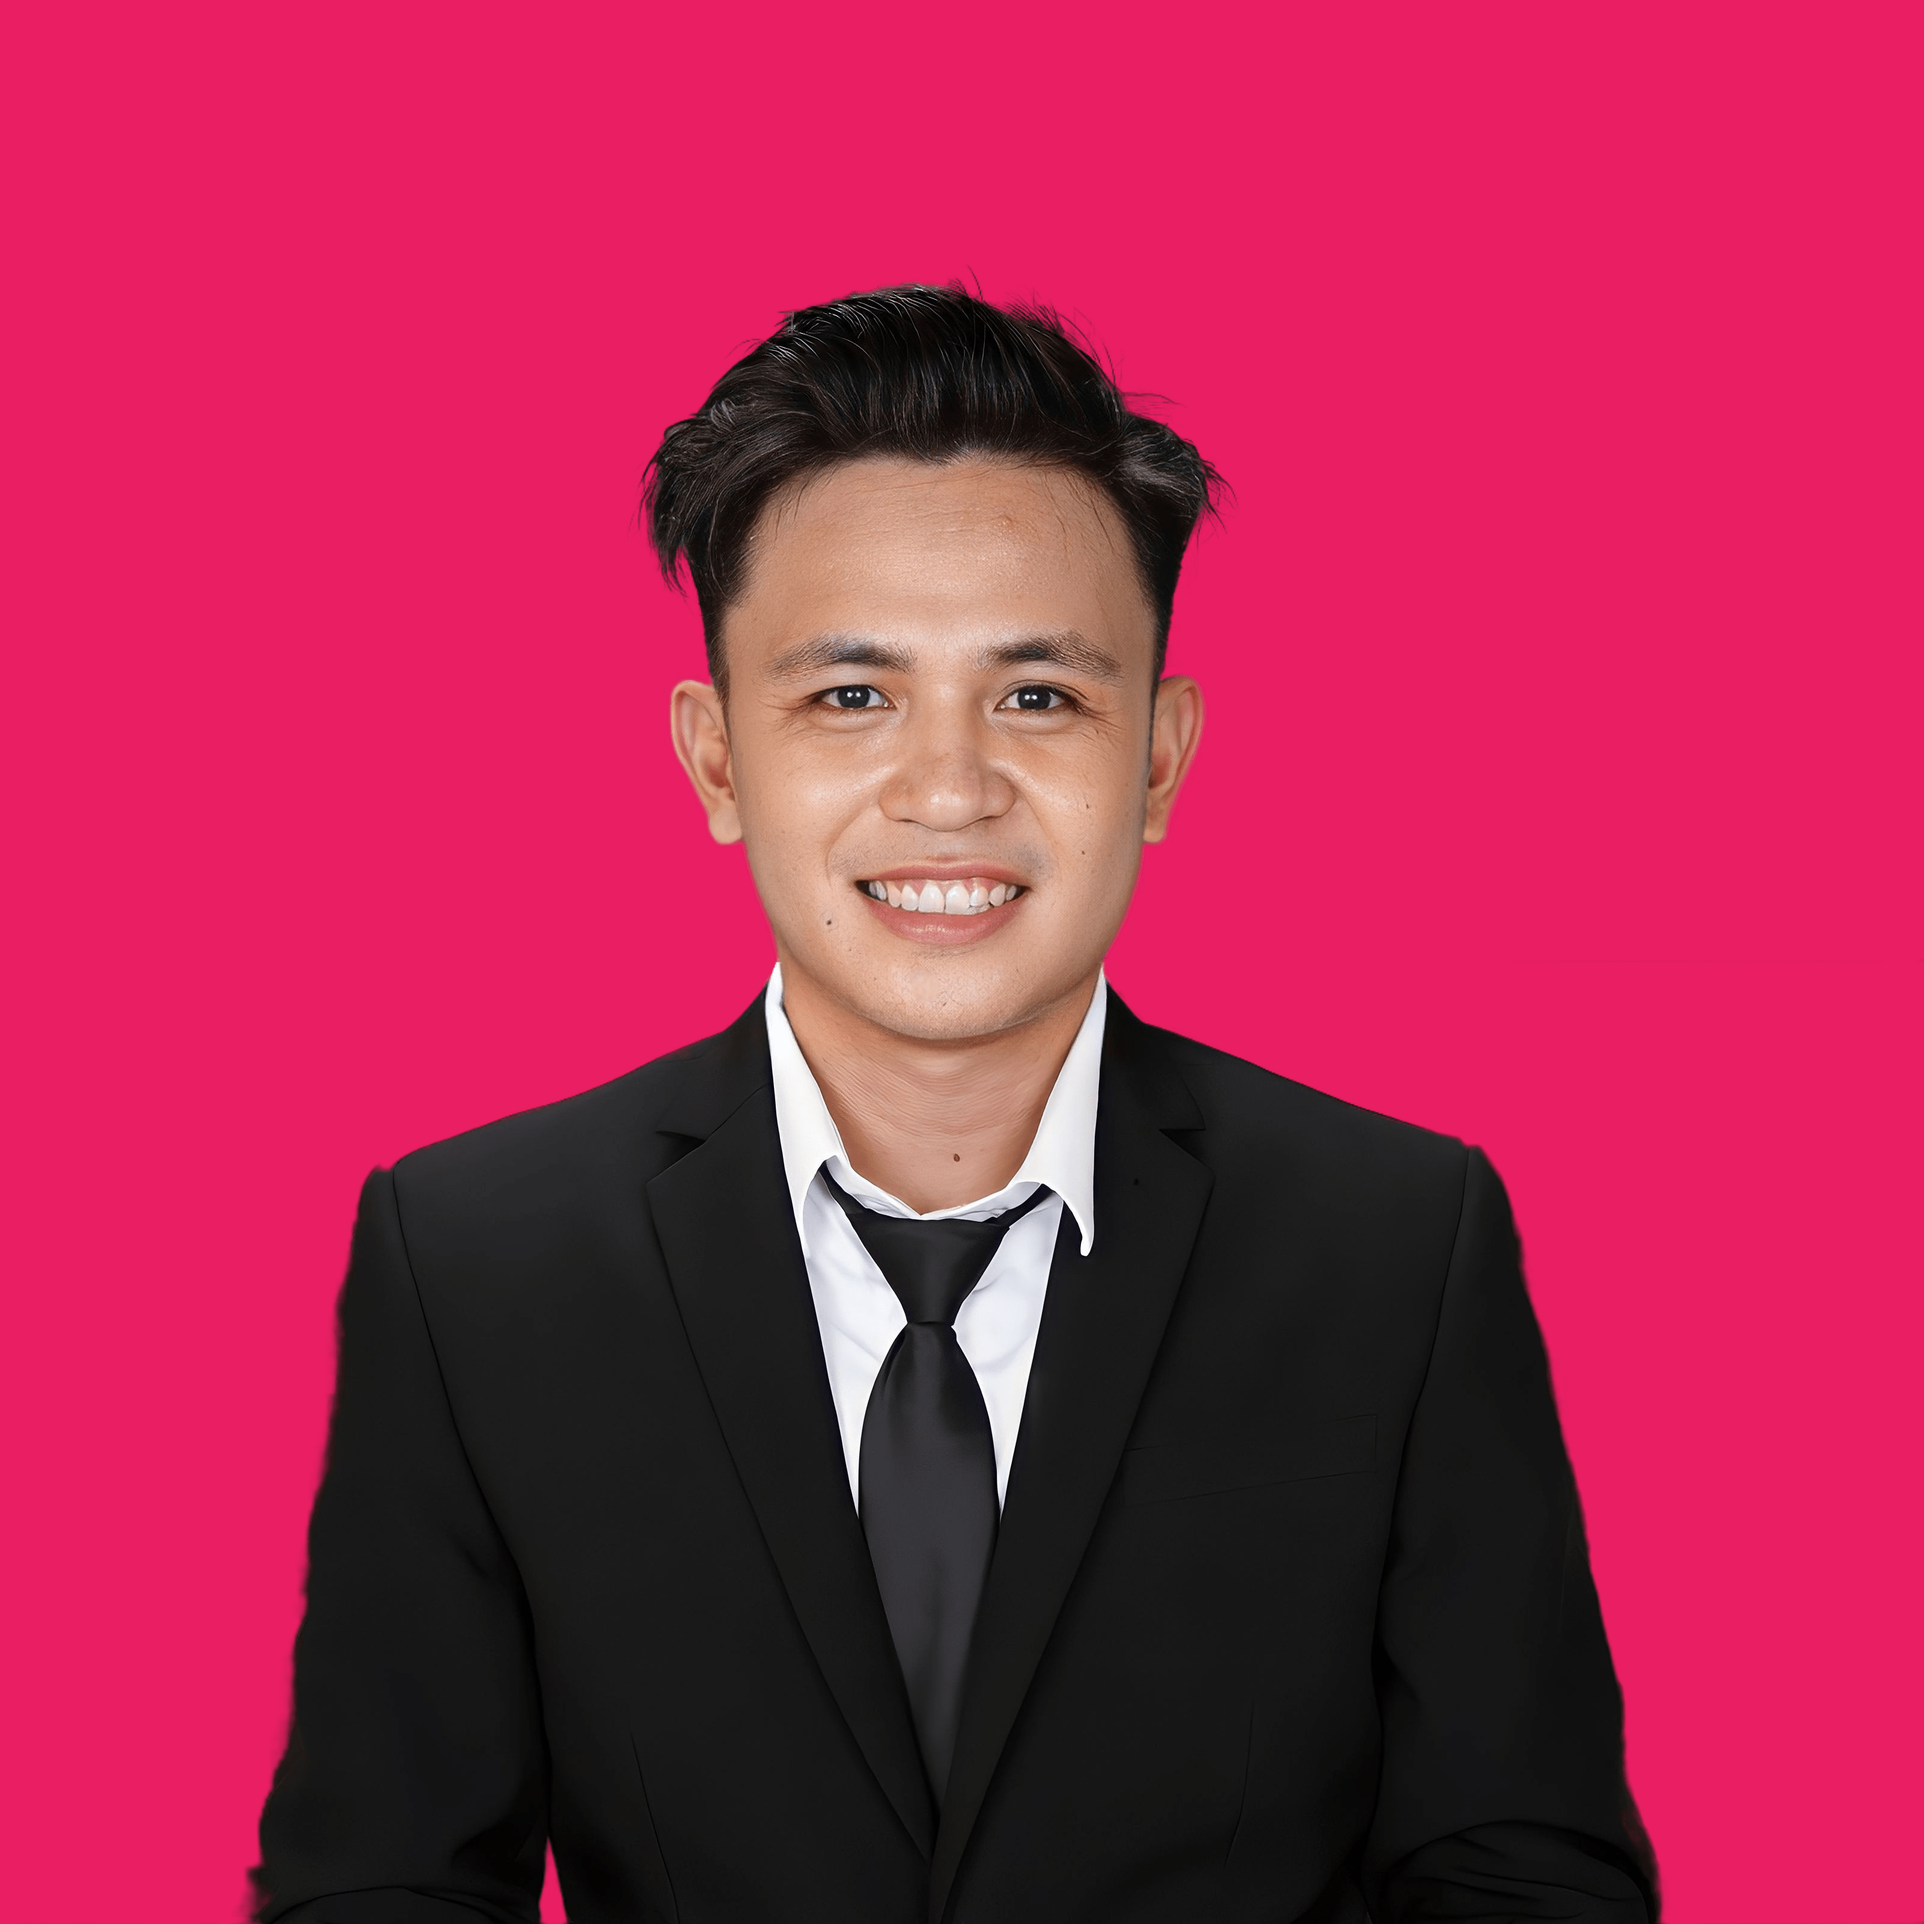
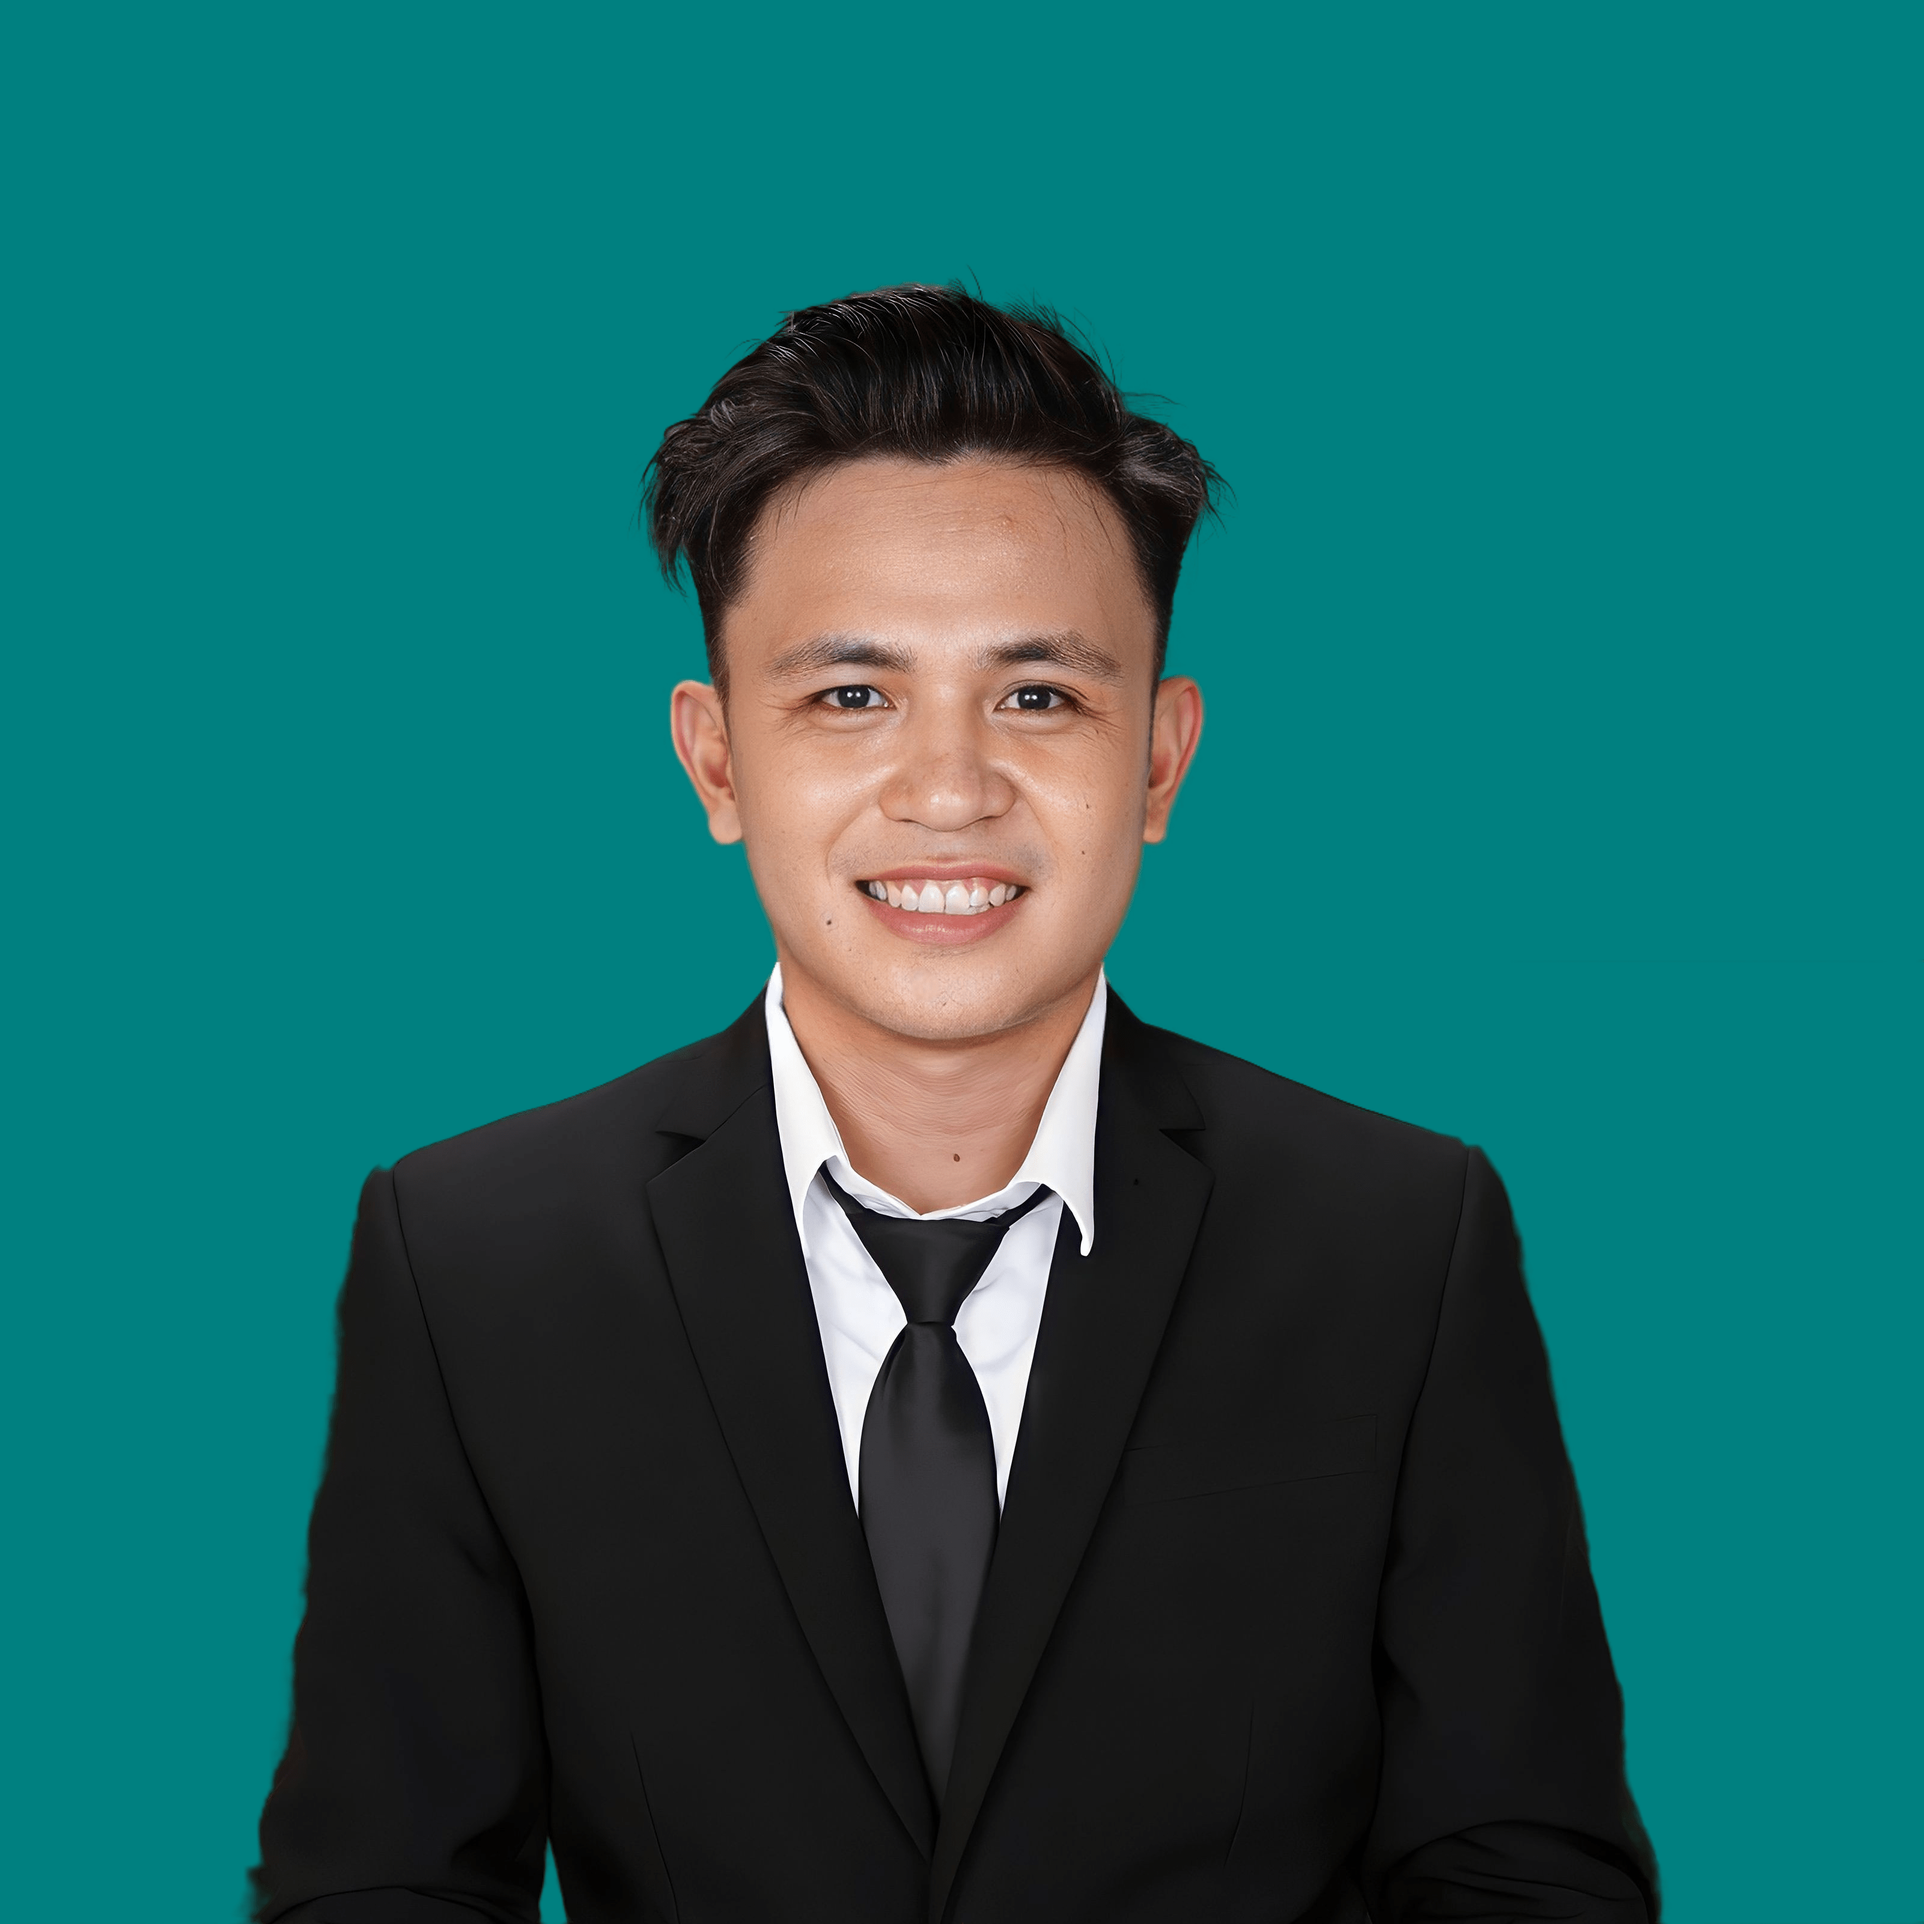
ricky commit

diff --git a/software-development.html b/software-development.html
@@ -44,8 +44,7 @@
         <ul>
           <li><a class="nav-link scrollto" href="index.html">Home</a></li>
           <li><a class="nav-link scrollto" href="index.html#about">About</a></li>
-          <li><a class="nav-link scrollto" href="index.html#teams">Teams</a></li>
-          <li><a class="nav-link scrollto" href="index.html#services">Services</a></li>
+          <li><a class="nav-link scrollto" href="index.html#services">Teams</a></li>
           <!-- <li><a class="nav-link scrollto" href="index.html#projects">Projects</a></li> -->
 
       <!-- ======= For the future purposes ======= -->  
@@ -132,7 +131,7 @@
           </div>
           <div class="member-info">
             <h4>Alleah Wil Lomantas</h4>
-            <span>Chief Executive Officer</span>
+            <span>Web Developer</span>
             <p>Velit aut quia fugit et et. Dolorum ea voluptate vel tempore tenetur ipsa quae aut. Ipsum exercitationem iure minima enim corporis et voluptate.</p>
           </div>
         </div>
@@ -152,7 +151,7 @@
           </div>
           <div class="member-info">
             <h4>Myla Torreon</h4>
-            <span>Product Manager</span>
+            <span>Web Developer</span>
             <p>Quo esse repellendus quia id. Est eum et accusantium pariatur fugit nihil minima suscipit corporis. Voluptate sed quas reiciendis animi neque sapiente.</p>
           </div>
         </div>
@@ -172,7 +171,7 @@
           </div>
           <div class="member-info">
             <h4>Jeramelle Tatad</h4>
-            <span>CTO</span>
+            <span>Mobile Developer</span>
             <p>Vero omnis enim consequatur. Voluptas consectetur unde qui molestiae deserunt. Voluptates enim aut architecto porro aspernatur molestiae modi.</p>
           </div>
         </div>
@@ -192,7 +191,7 @@
           </div>
           <div class="member-info">
             <h4>John Paul Racho</h4>
-            <span>Accountant</span>
+            <span>Web Developer</span>
             <p>Rerum voluptate non adipisci animi distinctio et deserunt amet voluptas. Quia aut aliquid doloremque ut possimus ipsum officia.</p>
           </div>
         </div>
@@ -211,7 +210,7 @@
           </div>
           <div class="member-info">
             <h4>Marvin Paongilan</h4>
-            <span>Accountant</span>
+            <span>Front-End Web Developer</span>
             <p>Rerum voluptate non adipisci animi distinctio et deserunt amet voluptas. Quia aut aliquid doloremque ut possimus ipsum officia.</p>
           </div>
         </div>
@@ -230,7 +229,7 @@
           </div>
           <div class="member-info">
             <h4>Rhea Jagunos</h4>
-            <span>Accountant</span>
+            <span>Web Developer</span>
             <p>Rerum voluptate non adipisci animi distinctio et deserunt amet voluptas. Quia aut aliquid doloremque ut possimus ipsum officia.</p>
           </div>
         </div>
@@ -249,7 +248,7 @@
           </div>
           <div class="member-info">
             <h4>Jenecil Patac</h4>
-            <span>Accountant</span>
+            <span>Web Developer</span>
             <p>Rerum voluptate non adipisci animi distinctio et deserunt amet voluptas. Quia aut aliquid doloremque ut possimus ipsum officia.</p>
           </div>
         </div>
@@ -268,7 +267,7 @@
           </div>
           <div class="member-info">
             <h4>Almer John Lauigan</h4>
-            <span>Accountant</span>
+            <span>System Administration</span>
             <p>Rerum voluptate non adipisci animi distinctio et deserunt amet voluptas. Quia aut aliquid doloremque ut possimus ipsum officia.</p>
           </div>
         </div>
@@ -295,13 +294,12 @@
                 <span>ZIONLAB</span>
                 <h1>IT CONSULTANCY</h1>
               </div>
-              <p>Stay connected with ZionLab IT Consultancy through our social media channels! Follow us for the latest updates on our projects, services, and industry insights.
-                Engage with our community and join the conversation about the latest trends in software development, digital marketing, and creative design.</p>
+              <p>Cras fermentum odio eu feugiat lide par naso tierra. Justo eget nada terra videa magna derita valies darta donna mare fermentum iaculis eu non diam phasellus.</p>
               <div class="social-links mt-3">
-                <a href="#"  target="_blank" rel="noopener noreferrer" class="twitter"><i class="bi bi-twitter"></i></a>
-                <a href="https://www.facebook.com/ZionLabIT"  target="_blank" rel="noopener noreferrer" class="facebook"><i class="bi bi-facebook"></i></a>
-                <a href="#"  target="_blank" rel="noopener noreferrer" class="instagram"><i class="bi bi-instagram"></i></a>
-                <a href="https://www.linkedin.com/company/thezionlab"  target="_blank" rel="noopener noreferrer" class="linkedin"><i class="bi bi-linkedin"></i></a>
+                <a href="#" class="twitter"target="_blank" rel="noopener noreferrer"  ><i class="bi bi-twitter"></i></a>
+                <a href="https://www.facebook.com/ZionLabIT"target="_blank" rel="noopener noreferrer"><i class="bi bi-facebook"></i></a>
+                <a href="#" class="instagram"target="_blank" rel="noopener noreferrer"  ><i class="bi bi-instagram"></i></a>
+                <a href="https://www.linkedin.com/company/thezionlab?fbclid=IwAR2hJIa-OXjDUdI5EseL_VB1wK7gn9EEsK2_DYIDYMiVNfIvz2bL9Assum0" class="linkedin"target="_blank" rel="noopener noreferrer"  ><i class="bi bi-linkedin"></i></a>
               </div>
             </div>
   
@@ -336,7 +334,7 @@
                 Bohol, 6301<br>
                 Philippines <br><br>
                 <strong>Phone:</strong> +1 5589 55488 55<br>
-                <strong>Email:</strong> zionlab.ph@gmail.com<br>
+                <strong>Email:</strong> zionlab.info@gmail.com<br>
               </p>
   
             </div>

diff --git a/digital-marketing.html b/digital-marketing.html
@@ -132,7 +132,7 @@
           </div>
           <div class="member-info">
             <h4>Marry Ann Chatto</h4>
-            <span>Chief Executive Officer</span>
+            <span>Digital Marketing</span>
             <p>Velit aut quia fugit et et. Dolorum ea voluptate vel tempore tenetur ipsa quae aut. Ipsum exercitationem iure minima enim corporis et voluptate.</p>
           </div>
         </div>
@@ -152,7 +152,7 @@
           </div>
           <div class="member-info">
             <h4>Jasper Joshua Geolagon</h4>
-            <span>Product Manager</span>
+            <span>Digital Marketing</span>
             <p>Quo esse repellendus quia id. Est eum et accusantium pariatur fugit nihil minima suscipit corporis. Voluptate sed quas reiciendis animi neque sapiente.</p>
           </div>
         </div>
@@ -172,7 +172,7 @@
           </div>
           <div class="member-info">
             <h4>Paul Baquero</h4>
-            <span>CTO</span>
+            <span>Digital Marketing</span>
             <p>Vero omnis enim consequatur. Voluptas consectetur unde qui molestiae deserunt. Voluptates enim aut architecto porro aspernatur molestiae modi.</p>
           </div>
         </div>
@@ -245,7 +245,7 @@
                 Bohol, 6301<br>
                 Philippines <br><br>
                 <strong>Phone:</strong> +1 5589 55488 55<br>
-                <strong>Email:</strong> zionlab.ph@gmail.com<br>
+                <strong>Email:</strong> zionlab.info@gmail.com<br>
               </p>
   
             </div>

diff --git a/creatives.html b/creatives.html
@@ -131,7 +131,7 @@
           </div>
           <div class="member-info">
             <h4>Eric Maglajos</h4>
-            <span>Chief Executive Officer</span>
+            <span>Video/Graphics</span>
             <p>Velit aut quia fugit et et. Dolorum ea voluptate vel tempore tenetur ipsa quae aut. Ipsum exercitationem iure minima enim corporis et voluptate.</p>
           </div>
         </div>
@@ -153,7 +153,7 @@
           </div>
           <div class="member-info">
             <h4>James Keneth Rasonabe</h4>
-            <span>CTO</span>
+            <span>Video</span>
             <p>Vero omnis enim consequatur. Voluptas consectetur unde qui molestiae deserunt. Voluptates enim aut architecto porro aspernatur molestiae modi.</p>
           </div>
         </div>
@@ -172,7 +172,7 @@
           </div>
           <div class="member-info">
             <h4>Justin Corpus</h4>
-            <span>CTO</span>
+            <span>Video</span>
             <p>Vero omnis enim consequatur. Voluptas consectetur unde qui molestiae deserunt. Voluptates enim aut architecto porro aspernatur molestiae modi.</p>
           </div>
         </div>
@@ -242,7 +242,7 @@
                 Bohol, 6301<br>
                 Philippines <br><br>
                 <strong>Phone:</strong> +1 5589 55488 55<br>
-                <strong>Email:</strong> zionlab.ph@gmail.com<br>
+                <strong>Email:</strong> zionlab.info@gmail.com<br>
               </p>
   
             </div>

diff --git a/index.html b/index.html
@@ -295,7 +295,8 @@
     </section><!-- End Services Section -->
 
     <!--END Services-->
-
+<!--COLOR SA BACKGROUND SA CREATIVES-->
+<!-- F2B9F4 -->
     <!-- ======= Counts Section ======= -->
     <section id="counts" class="counts">
       <div class="container" data-aos="fade-up">
@@ -715,7 +716,7 @@
                 <div class="info-box">
                   <i class="bi bi-envelope"></i>
                   <h3>Email Us</h3>
-                  <p>zionlab.ph@gmail.com</p>
+                  <p>zionlab.info@gmail.com</p>
                 </div>
               </div>
               <div class="col-md-6">
@@ -822,7 +823,7 @@
               Bohol, 6301<br>
               Philippines <br><br>
               <strong>Phone:</strong> +1 5589 55488 55<br>
-              <strong>Email:</strong> zionlab.ph@gmail.com<br>
+              <strong>Email:</strong> zionlab.info@gmail.com<br>
             </p>
 
           </div>

diff --git a/founder.html b/founder.html
@@ -141,7 +141,7 @@
       <div class="col-lg-3 col-md-6 d-flex align-items-stretch" data-aos="fade-up" data-aos-delay="200">
         <div class="member">
           <div class="member-img">
-            <img src="assets/img/team/eden.png" class="img-fluid" alt="">
+            <img src="assets/img/team/chy.png" class="img-fluid" alt="">
             <div class="social">
             <!-- <a href=""><i class="bi bi-twitter"></i></a> -->
             <a href="https://www.facebook.com/chylene.p.saraspe" target="_blank" rel="noopener noreferrer"><i class="bi bi-facebook"></i></a>

diff --git a/assets/css/style.css b/assets/css/style.css
@@ -915,20 +915,20 @@ section {
 }
 
 .services .service-box.red {
-  border-bottom: 3px solid #f14084;
+  border-bottom: 3px solid #008080;
 }
 
 .services .service-box.red .icon {
-  color: #f14084;
-  background: #fef7f8;
+  color: #008080;
+  background: #fdfdf8;
 }
 
 .services .service-box.red .read-more {
-  color: #f14084;
+  color: #008080;
 }
 
 .services .service-box.red:hover {
-  background: #f14084;
+  background: #008080;
 }
 
 .services .service-box.purple {
